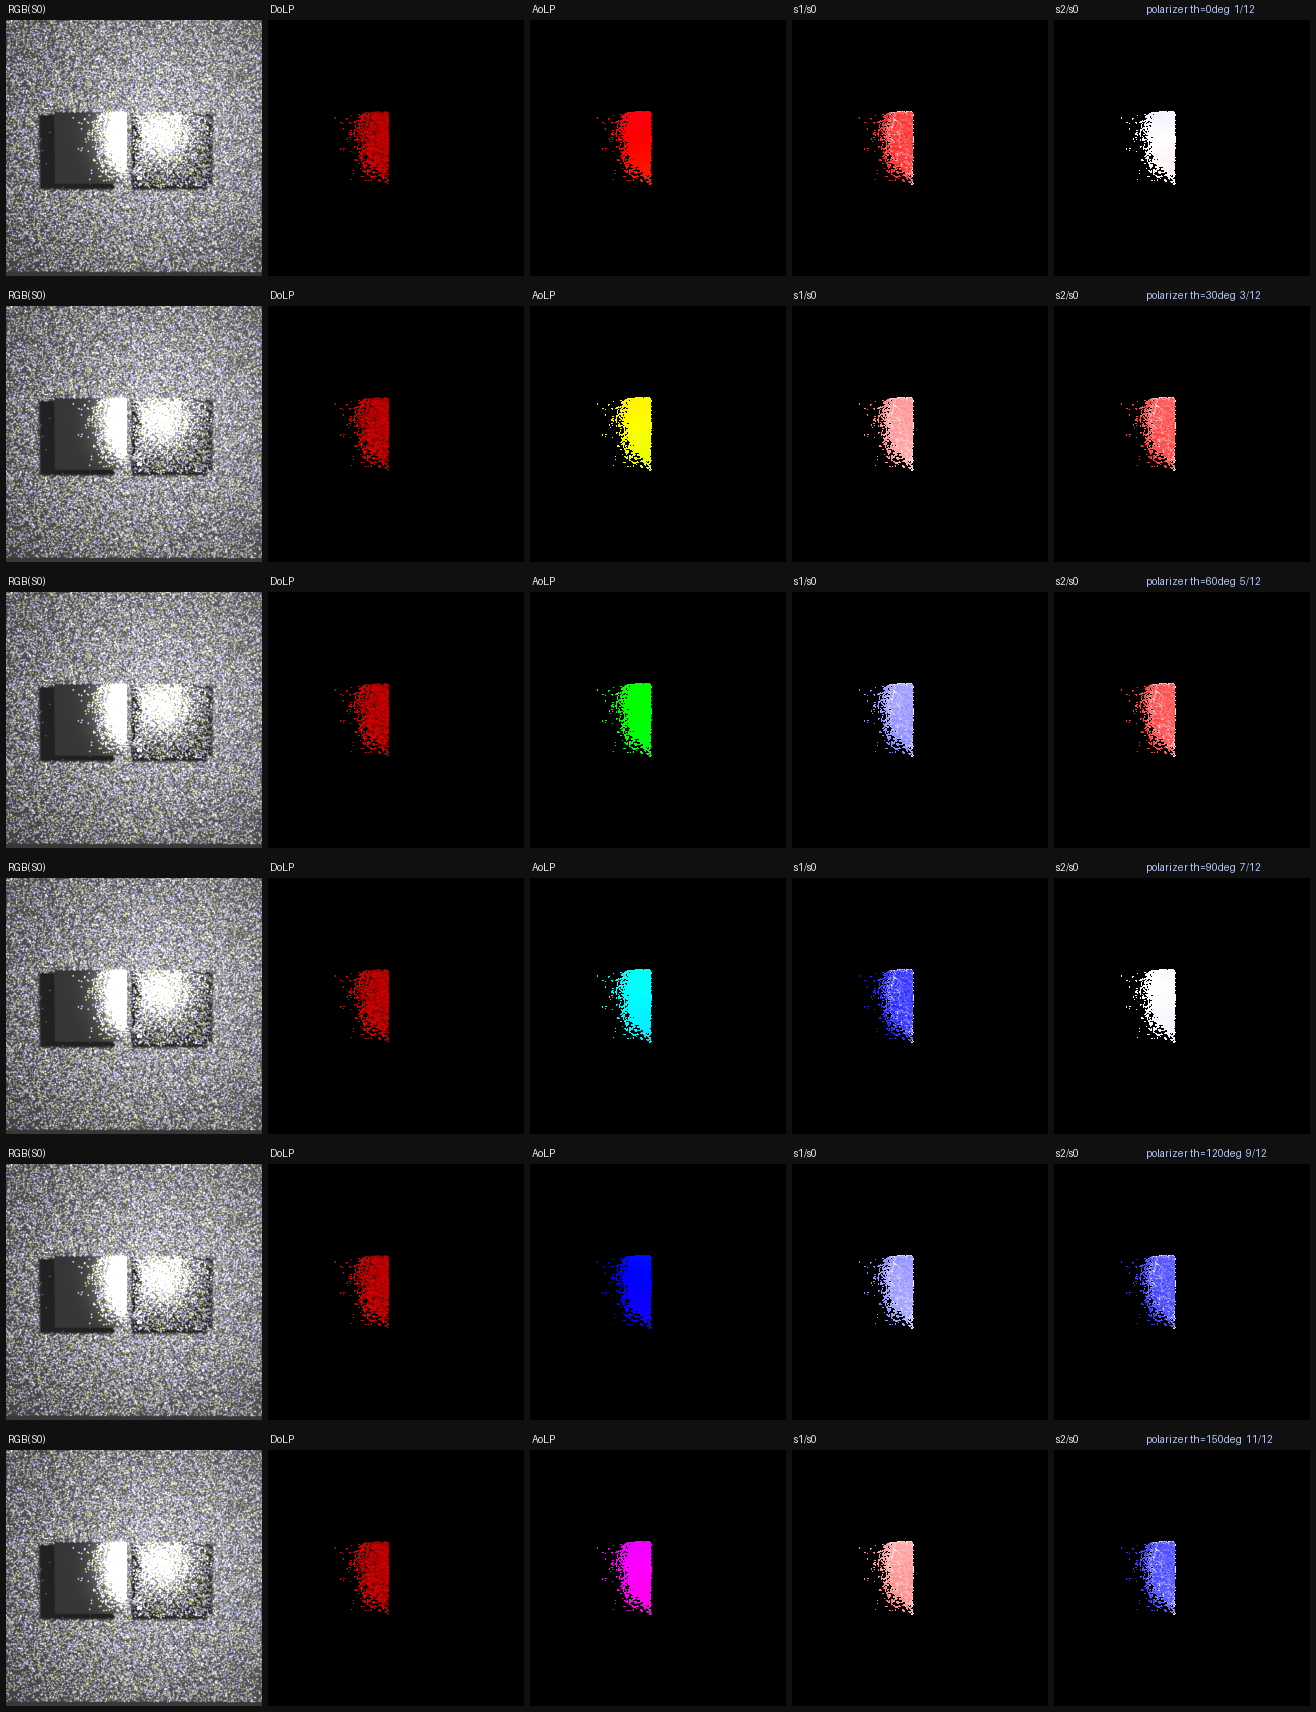
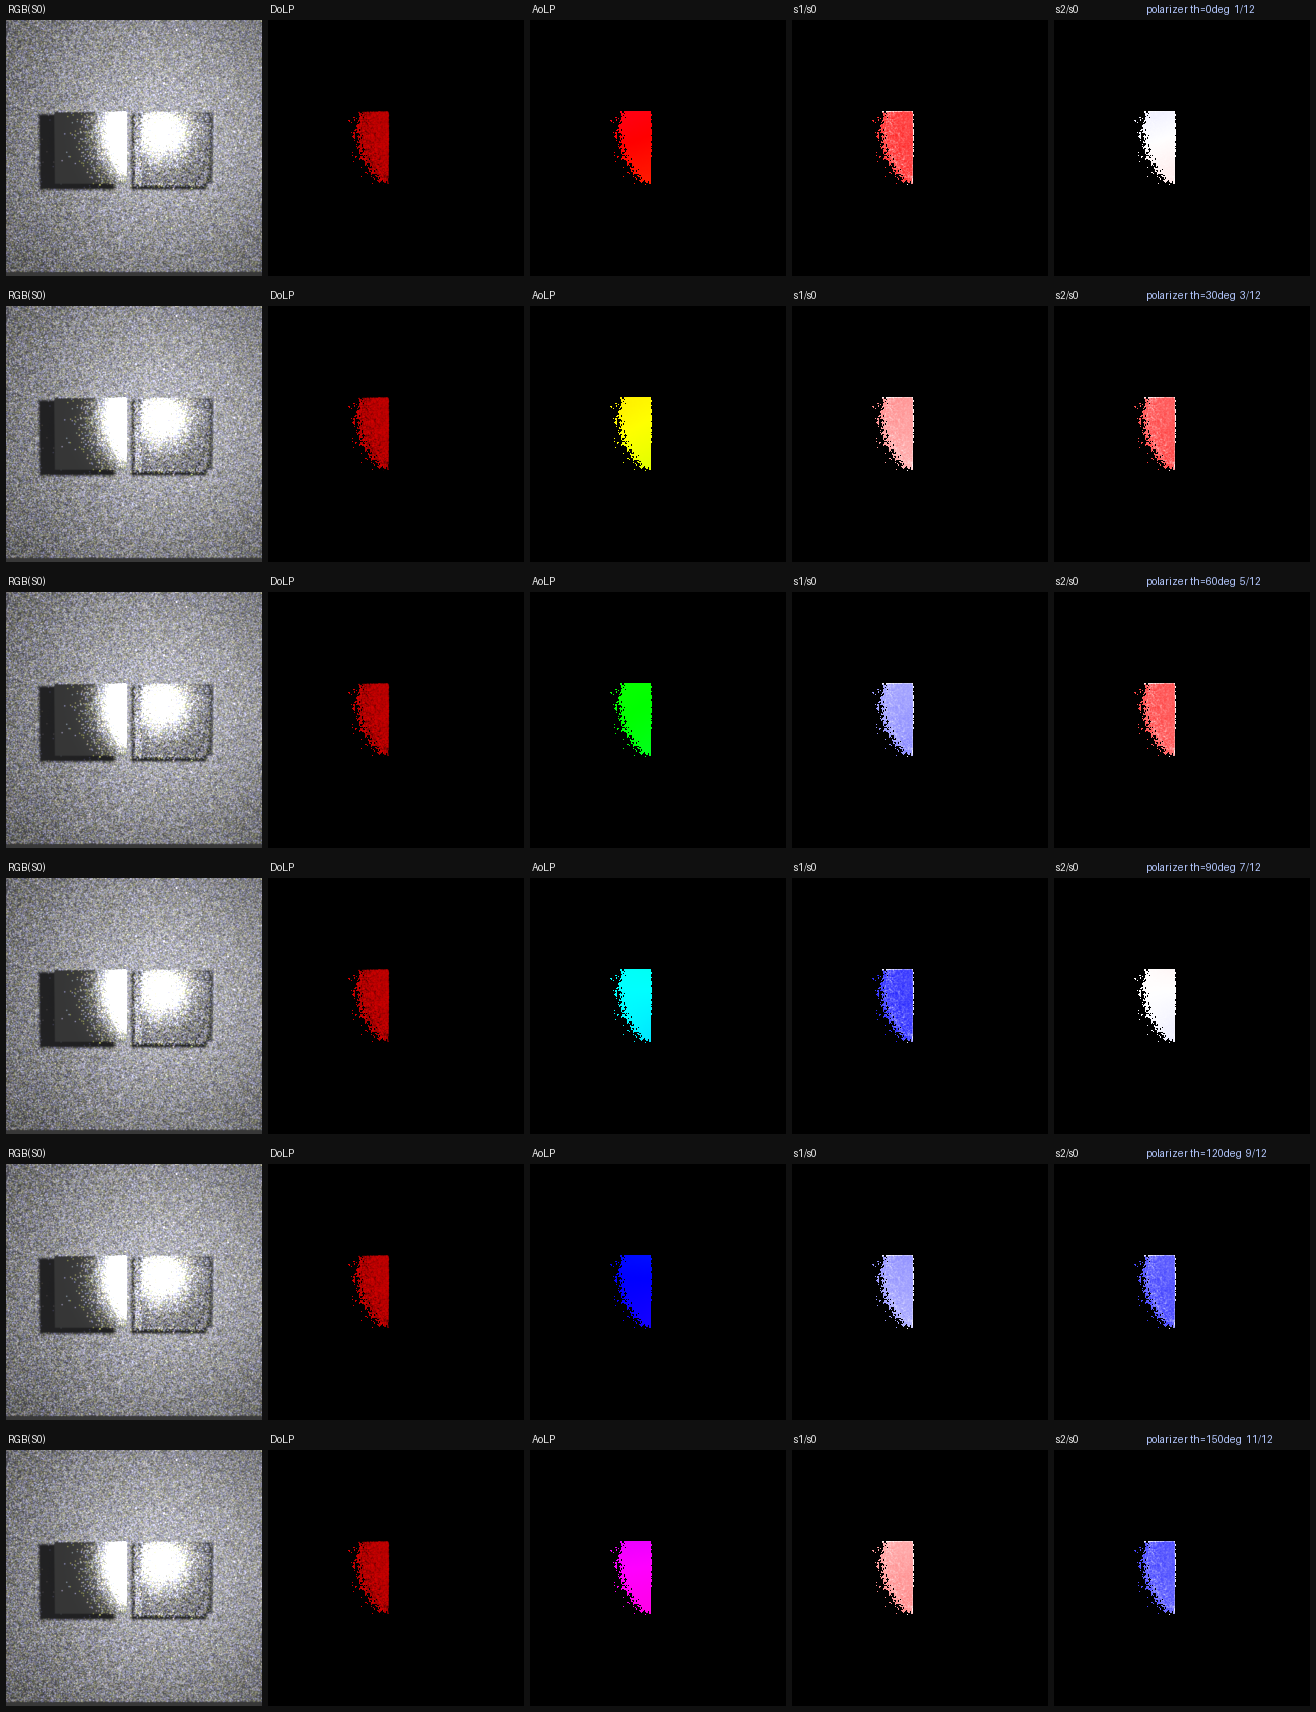
dev_report(0705): unify polarizer/relight viz + bump to spp4096
Both sweeps now share the SAME visualization pipeline (specular mask
S0>0.12 AND DoLP>0.06, identical BwR/DoLP/AoLP colormaps, same exposure),
so the polarizer-angle sweep and the flash-position relight sweep are
directly comparable. The relight sweep previously used an S0-only mask,
which let Monte-Carlo noise in s1/s2 show up as spurious "polarization"
speckle on the depolarizing diffuse background; the specular mask removes it.

Re-rendered both at spp4096 (was 1024 / 2048) for cleaner specular panels.
Note: the RGB(S0) grain is intrinsic — an area emitter behind a polarizer
blocks NEE, so illumination comes only from high-variance BSDF-sampled
paths; higher spp reduces it slowly.

diff --git a/dev_report/report_2026-07-05_active_flash_imaging.html b/dev_report/report_2026-07-05_active_flash_imaging.html
@@ -149,20 +149,20 @@
       <figcaption>정적 filmstrip(위=light 좌, 아래=light 우). GIF 미재생 환경용.</figcaption>
     </figure>
 
-    <h3>Relighting sweep — 고프레임·spp2048 (mirror/glass 정면 씬)</h3>
+    <h3>Relighting sweep — 고프레임·spp4096 (mirror/glass 정면 씬)</h3>
     <p>
-      위 8프레임 sweep을 <b>16프레임 · spp2048</b>로 확장하고, 관측자를 정면으로 향한
+      위 8프레임 sweep을 <b>16프레임 · spp4096</b>로 확장하고, 관측자를 정면으로 향한
       <b>거울(roughconductor Al α0.15) + 유리(roughdielectric α0.12)</b> 패널 씬에서
       편광 flash를 <b>x −1.05→+1.05m 로 이동</b>했다(flash fixture는 프레임 밖으로 올림).
       RGB(S0) specular 하이라이트가 좌(거울)→우(유리)로 이동하며 DoLP·s1·s2 편광 응답도 함께 이동한다
       (specular DoLP ≈ 0.76).
     </p>
     <figure>
-      <img src="images/0705_relight_sweep_2k.gif" alt="relight sweep spp2048 16 frames">
-      <figcaption>16프레임 · spp2048 · ping-pong GIF. 5패널 = RGB(S0) · DoLP · AoLP · s1 · s2. 절차적 재질(외부 텍스처 無)이라 CIFS 핸들 부담 없이 고품질 렌더.</figcaption>
+      <img src="images/0705_relight_sweep_2k.gif" alt="relight sweep spp4096 16 frames">
+      <figcaption>16프레임 · spp4096 · ping-pong GIF. 5패널 = RGB(S0) · DoLP · AoLP · s1 · s2. 편광 패널은 아래 polarizer 스윕과 <b>동일한 specular 마스크</b>(S0&gt;0.12 &amp; DoLP&gt;0.06)를 써서 직접 비교 가능 — 배경(diffuse, 편광≈0)은 제거되고 거울 specular 하이라이트만 표시. flash가 좌→우로 이동하며 하이라이트도 이동.</figcaption>
     </figure>
     <figure>
-      <img src="images/0705_relight_filmstrip_2k.png" alt="relight sweep spp2048 filmstrip" style="max-width:520px">
+      <img src="images/0705_relight_filmstrip_2k.png" alt="relight sweep spp4096 filmstrip" style="max-width:520px">
       <figcaption>정적 filmstrip(위=flash 좌, 아래=flash 우).</figcaption>
     </figure>
 
@@ -179,7 +179,7 @@
     </p>
     <figure>
       <img src="images/0705_polarizer_sweep.gif" alt="illumination polarizer rotation sweep (animated)">
-      <figcaption>12프레임 · spp1024 · ping-pong GIF. 좌측=거울(강한 편광 반사), 우측=유리. AoLP hue = 편광각.</figcaption>
+      <figcaption>12프레임 · spp4096 · ping-pong GIF. 좌측=거울(강한 편광 반사), 우측=유리. AoLP hue = 편광각. relight 스윕과 동일 마스크·colormap.</figcaption>
     </figure>
     <figure>
       <img src="images/0705_polarizer_filmstrip.png" alt="polarizer rotation filmstrip" style="max-width:520px">
